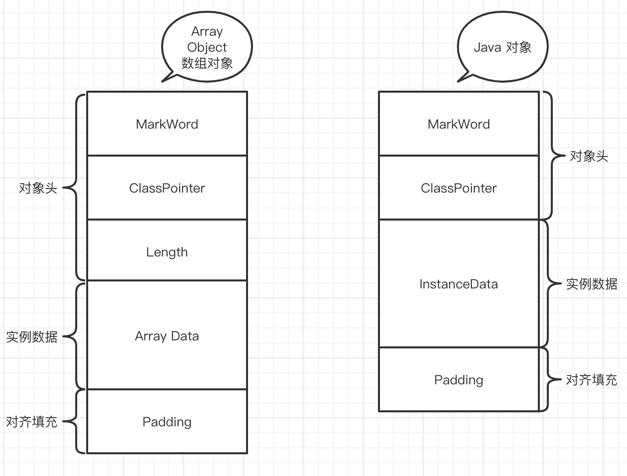
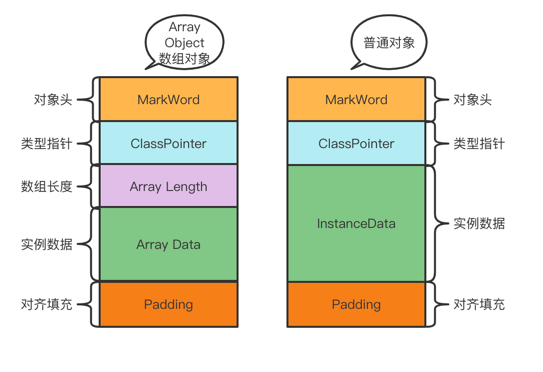
object model

diff --git a/src/main/java/jvm/objectmodel/ObjectSize.java b/src/main/java/jvm/objectmodel/ObjectSize.java
@@ -11,7 +11,47 @@ public class ObjectSize {
 
     public static void main(String[] args) {
         Object o = new Object();
+        System.out.println("new Object() 对象大小为：" + ObjectAgent.sizeof(o));
 
-        System.out.println(ObjectAgent.sizeof(o));
+        // -XX:+UserCompressedClassPointers 为16
+        // -XX:-UserCompressedClassPointers 为24
+        T t = new T();
+        System.out.println("new T() 对象大小为：" + ObjectAgent.sizeof(t));
+
+        // -XX:+UserCompressedClassPointers 为24
+        // -XX:-UserCompressedClassPointers 为32
+        // -XX:-UserCompressedClassPointers -XX:-UseCompressedOops 为 40
+        P p = new P();
+        System.out.println("new P() 对象大小为：" + ObjectAgent.sizeof(p));
+    }
+
+    public static class T {
+        // mark word 8 字节
+        // class pointer 压缩为4字节，不压缩为8字节
+
+        // int 类型为 4 个字节
+        int a;
+
+        // padding 对其填充为 8 字节倍数
+    }
+
+    /**
+     * -XX:+UserCompressedClassPointers 为24
+     * -XX:-UserCompressedClassPointers 为32
+     * -XX:-UserCompressedClassPointers -XX:-UseCompressedOops 为 40
+     */
+    public static class P {
+        // mark word 8 字节
+        // class pointer 压缩为4字节，不压缩为8字节
+
+        // int 类型为 4 个字节
+        int a;
+        int b;
+        int c;
+
+        // String 为引用类型，开启oops压缩占4个字节，正常占8个字节
+        String s = "s";
+
+        // padding 对其填充为 8 字节倍数
     }
 }

diff --git a/src/main/java/jvm/objectmodel/ObjectAgent.java b/src/main/java/jvm/objectmodel/ObjectAgent.java
@@ -10,7 +10,14 @@ public class ObjectAgent {
 
     static Instrumentation inst;
 
-    public static void premain(String args, Instrumentation _inst) {
+    /**
+     * 该方法签名是固定的，就和main方法类似
+     *
+     * @param agentArgs
+     * @param _inst
+     */
+
+    public static void premain(String agentArgs, Instrumentation _inst) {
         inst = _inst;
     }
 

diff --git a/src/main/java/jvm/objectmodel/README.md b/src/main/java/jvm/objectmodel/README.md
@@ -6,17 +6,49 @@
 5. 成员变量赋默认值
 6. 调用构造方法<init>
     - 成员比那里顺序赋初始值
-    - 执行构造方法语句
+    - 执行构造方法
 
 ## 对象在内存中的存储布局
 
+关于该问题需要拆分为两种情况分析：
+
+1. 普通对象：
+
+- 对象头markword: 8个字节
+
+- Class pointer: 属于哪个class，-XX:+UseCompressedClassPointers 为4字节，否则为8字节。
+
+- 实例数据InstantData：
+
+    - 引用类型: -XX:+UseCompressOops 开启则占4字节，否则占8字节
+
+
+* 对齐填充Padding：保证对象的大小为8的整数倍。
+
+
+
+2. 数组对象:
+
+* markword: 8个字节
+* class pointer: 属于哪个class，-XX:+UseCompressedClassPointers 为4字节，否则为8字节。
+* 数组长度: 4个字节
+* 数组数据
+* 对齐填充：保证对象的大小为8位的整数倍。
+
+整个对象的结构大致如下图：
+
+![ObjectModel](ObjectModel.png "ObjectModel")
+
 > https://www.jianshu.com/p/d42ac3ab41f7
 
-对象的大小和虚拟机的配置有关联
-```java
- java -XX:+PrintCommandLineFlags -version
+## 对象的大小
 
-输出如下:
+对象的实际大小其实和虚拟机的配置有关联，我们可以通过`java -XX:+PrintCommandLineFlags -version` 输出当前JVM的配置信息：
+
+```java
+java -XX:+PrintCommandLineFlags -version
+        
+以下是笔者安装的JVM, 输出如下:
      -XX:InitialHeapSize=268435456
      -XX:MaxHeapSize=4294967296
      -XX:+PrintCommandLineFlags
@@ -28,37 +60,51 @@ Java(TM) SE Runtime Environment (build 1.8.0_271-b09)
 Java HotSpot(TM) 64-Bit Server VM (build 25.271-b09, mixed mode)
 ```
 
-普通对象：
+在上面的输出信息有两个配置内容关系到一个对象的实际大小：
 
-- 对象头
-   * markword: 8个字节
-   * class pointer: 属于哪个class，-XX:+UseCompressedClassPointers 为4字节，否则为8字节。
-   * 实例数据：
-      - 引用类型: -XX:+UseCompressOops 为4字节，否则为8字节
-     
-   * 对齐填充：保证对象的大小为8的倍数
+- -XX:+UseCompressedClassPointers: 表示开启 class pointer 指针压缩，class pointer 原始占用8个字节，开启压缩指针后占用4个字节，可以通过-UseCompressedClassPointers关闭指针压缩。
+- -XX:+UseCompressedClassPointers: 表示开启普通对象的指针压缩，原始对象引用指针占用8个字节，开启压缩指针后占用4个字节，可以通过-UseCompressedClassPointers关闭指针压缩。
 
-数组对象:
-   * markword: 8个字节
-   * class pointer: 属于哪个class，-XX:+UseCompressedClassPointers 为4字节，否则为8字节。
-   * 数组长度: 4个字节
-   * 数组数据
-   * 对齐填充：保证对象的大小为8的倍数
+知道上述两个因素之后，就可以大致计算出一个对象的具体大小：
 
-## 对象的大小
-class 在 load 到内存中的时候可以在这个过程中增加一个 agent，通过 agent 可以获取到对象的大小；
+```java
+    /**
+     * -XX:+UserCompressedClassPointers 为24
+     * -XX:-UserCompressedClassPointers 为32
+     * -XX:-UserCompressedClassPointers -XX:-UseCompressedOops 为 40
+     */
+    public static class P {
+        // mark word 8 字节
+        // class pointer 压缩为4字节，不压缩为8字节
 
-可以利用 ObjectAgent来查询出对象的大小
+        // int 类型为 4 个字节
+        int a;
+        int b;
+        int c;
+
+        // String 为引用类型，开启oops压缩占4个字节，正常占8个字节
+        String s = "s";
+
+        // padding 对其填充为 8 字节倍数
+    }
+```
+
+### 小技巧利用 Agent 计算对象的大小
+
+在ClassLoader中提到，一个Class文件通过ClassLoader load 到内存中的时候，我们可以通过在这个过程中增加一个 agent，通过 agent 可以获取到对象的大小，具体步骤如下：
+
 1. 新建一个 Module，添加ObjectAgent.java
 ```java
     public class ObjectAgent {
     
         static Instrumentation inst;
-    
+    		
+      	// 该方法签名是固定的，就和main方法类似
         public static void premain(String args, Instrumentation _inst) {
             inst = _inst;
         }
     
+      	// 计算对象的大小
         public static long sizeof(Object o) {
             return inst.getObjectSize(o);
         }
@@ -71,17 +117,63 @@ Premain-Class: object_agent.ObjectAgent
 
 ```
 3. 将该module打成jar包，添加到需要使用的module的library中
+
 4. 添加启动VM参数：-javaagent:${ObjectAgent.jar的路径}
+
 5. 调用ObjectAgent.sizeof(o);
 
-*以下内容基于64位OS*
+   ```java
+   public class ObjectSize {
+   
+       public static void main(String[] args) {
+           Object o = new Object();
+           System.out.println("new Object() 对象大小为：" + ObjectAgent.sizeof(o));
+   
+           // -XX:+UserCompressedClassPointers 为16
+           // -XX:-UserCompressedClassPointers 为24
+           T t = new T();
+           System.out.println("new T() 对象大小为：" + ObjectAgent.sizeof(t));
+   
+           // -XX:+UserCompressedClassPointers 为24
+           // -XX:-UserCompressedClassPointers 为32
+           // -XX:-UserCompressedClassPointers -XX:-UseCompressedOops 为 40
+           P p = new P();
+           System.out.println("new P() 对象大小为：" + ObjectAgent.sizeof(p));
+       }
+   
+       public static class T {
+           // mark word 8 字节
+           // class pointer 压缩为4字节，不压缩为8字节
+   
+           // int 类型为 4 个字节
+           int a;
+   
+           // padding 对其填充为 8 字节倍数
+       }
+   
+       /**
+        * -XX:+UserCompressedClassPointers 为24
+        * -XX:-UserCompressedClassPointers 为32
+        * -XX:-UserCompressedClassPointers -XX:-UseCompressedOops 为 40
+        */
+       public static class P {
+           // mark word 8 字节
+           // class pointer 压缩为4字节，不压缩为8字节
+   
+           // int 类型为 4 个字节
+           int a;
+           int b;
+           int c;
+   
+           // String 为引用类型，开启oops压缩占4个字节，正常占8个字节
+           String s = "s";
+   
+           // padding 对其填充为 8 字节倍数
+       }
+   ```
 
-要想知道一个对象具体占用多少个字节，首先得知道JVM以下两个参数值：
-- -XX:+UseCompressedClassPointers: 表示开启 class pointer 指针压缩，class pointer 原始占用8个字节，开启压缩指针后占用4个字节，
-  可以通过-UseCompressedClassPointers关闭指针压缩。
-- -XX:+UseCompressedClassPointers: 表示开启普通对象的指针压缩，原始对象引用指针占用8个字节，开启压缩指针后占用4个字节，
-  可以通过-UseCompressedClassPointers关闭指针压缩。
-  
+   
+
 ## Hotspot虚拟机开启内存压缩的规则
 1. 4G以下，直接砍掉高32位
 2. 4G~32G，默认开启内存压缩 compressClassPointer compressOops
@@ -106,5 +198,4 @@ Premain-Class: object_agent.ObjectAgent
 > https://blog.csdn.net/clover_lily/article/details/80095580
 - 句柄池(gc 效率比较高)
 - 直接引用（hotspot）
-
 
